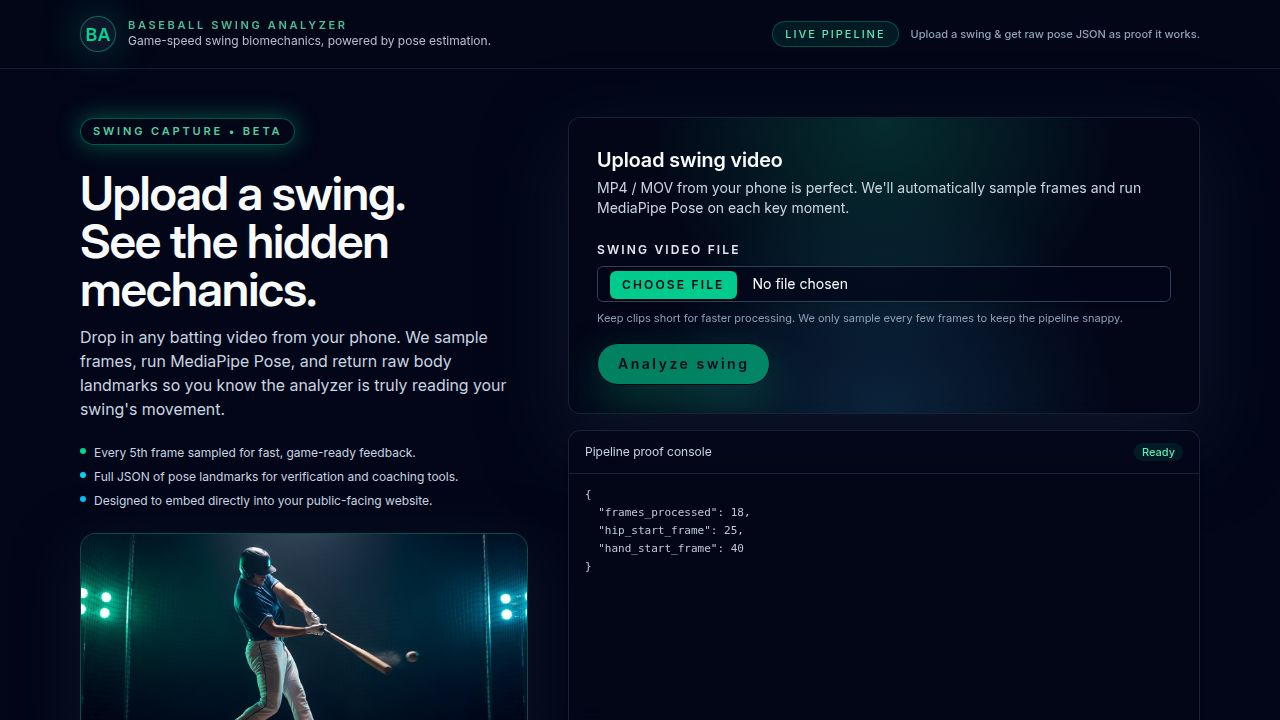
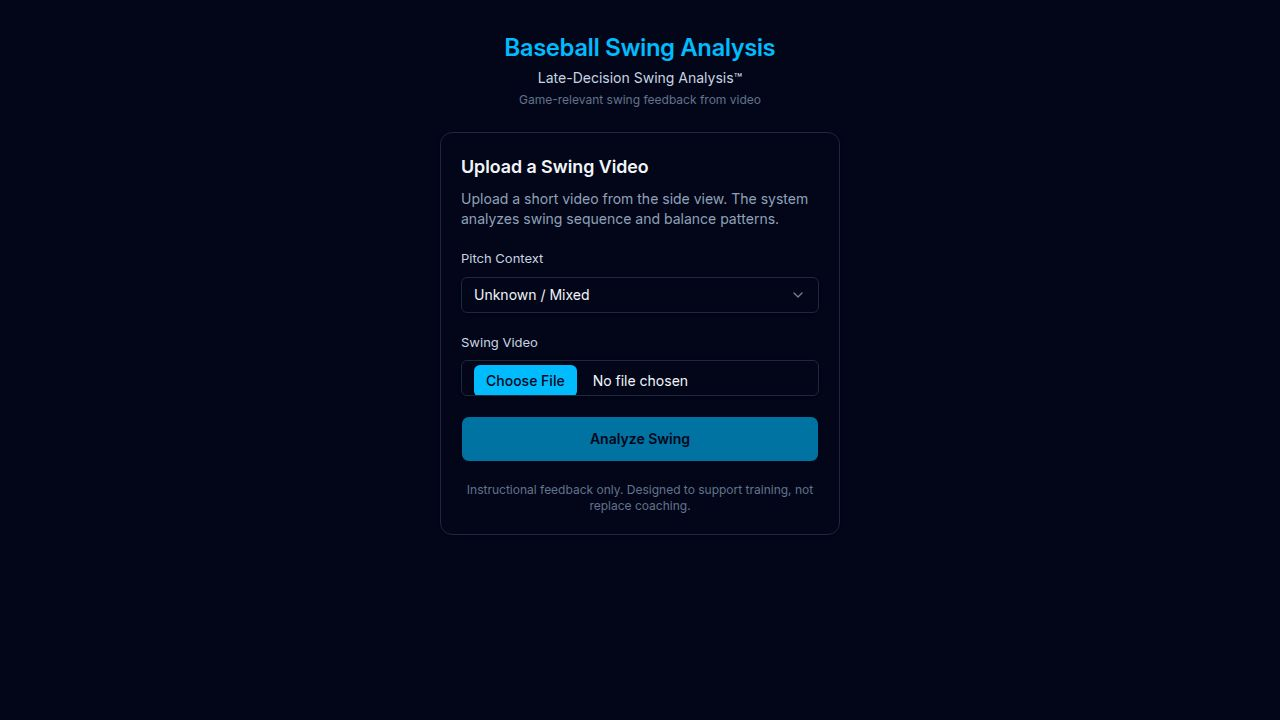
Add branding and refine user-facing text for analysis Add a subtitle, powered-by line, and a collapsible explanation to the swing analyzer interface.
Replit-Commit-Author: Agent
Replit-Commit-Session-Id: f71184c6-984f-4251-b2a1-21ab9777e2f3
Replit-Commit-Checkpoint-Type: full_checkpoint
Replit-Commit-Event-Id: b3da6ddc-2ee9-4727-b0b5-41afd89a04ad
Replit-Commit-Screenshot-Url: https://storage.googleapis.com/screenshot-production-us-central1/9cbcd93f-6369-4ba2-ad03-2a25e16a8d9b/f71184c6-984f-4251-b2a1-21ab9777e2f3/plUl92t
Replit-Helium-Checkpoint-Created: true

diff --git a/client/src/pages/swing-analyzer.tsx b/client/src/pages/swing-analyzer.tsx
@@ -119,7 +119,21 @@ export default function SwingAnalyzerPage() {
             )}
 
             <p className="text-xs text-slate-500 text-center pt-2">
-              Feedback is generated from swing sequence and balance patterns commonly evaluated by coaches.
+              Powered by Late-Decision Swing Analysis™
+            </p>
+
+            <details className="text-xs text-slate-400">
+              <summary className="cursor-pointer hover:text-slate-300">
+                Why this analysis is different
+              </summary>
+              <p className="mt-2 pl-3 border-l border-slate-700">
+                This feedback focuses on decision timing and balance under game speed,
+                not just swing positions or angles.
+              </p>
+            </details>
+
+            <p className="text-xs text-slate-500 text-center">
+              Instructional feedback only. Designed to support training, not replace coaching.
             </p>
 
             <Button
@@ -142,7 +156,10 @@ export default function SwingAnalyzerPage() {
           <h1 className="text-2xl font-semibold text-sky-400" data-testid="text-title">
             Baseball Swing Analysis
           </h1>
-          <p className="mt-1 text-sm text-slate-400">
+          <p className="mt-1 text-sm text-slate-300">
+            Late-Decision Swing Analysis™
+          </p>
+          <p className="mt-1 text-xs text-slate-500">
             Game-relevant swing feedback from video
           </p>
         </header>
@@ -217,8 +234,7 @@ export default function SwingAnalyzerPage() {
           </form>
 
           <p className="mt-5 text-xs text-slate-500 text-center">
-            This tool provides instructional feedback based on movement patterns.
-            It is not a medical or injury-diagnostic system.
+            Instructional feedback only. Designed to support training, not replace coaching.
           </p>
         </Card>
       </div>